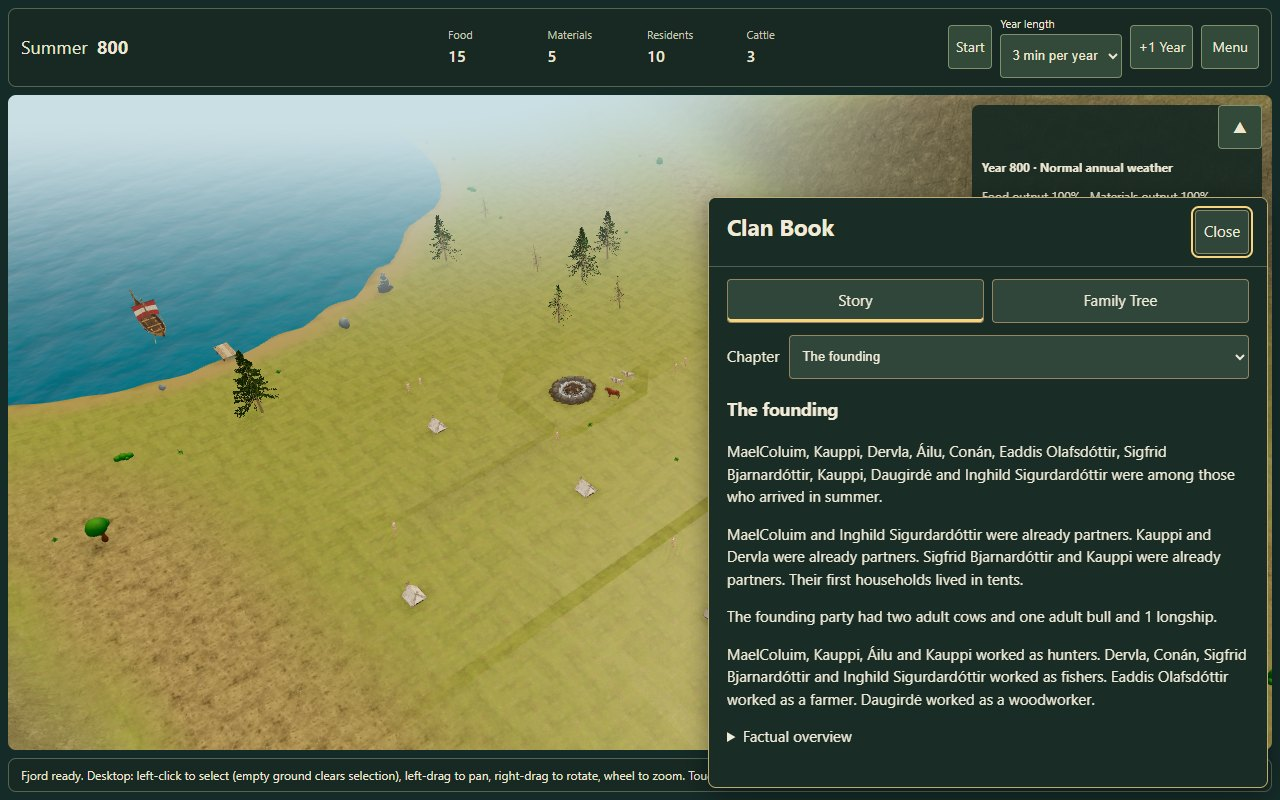
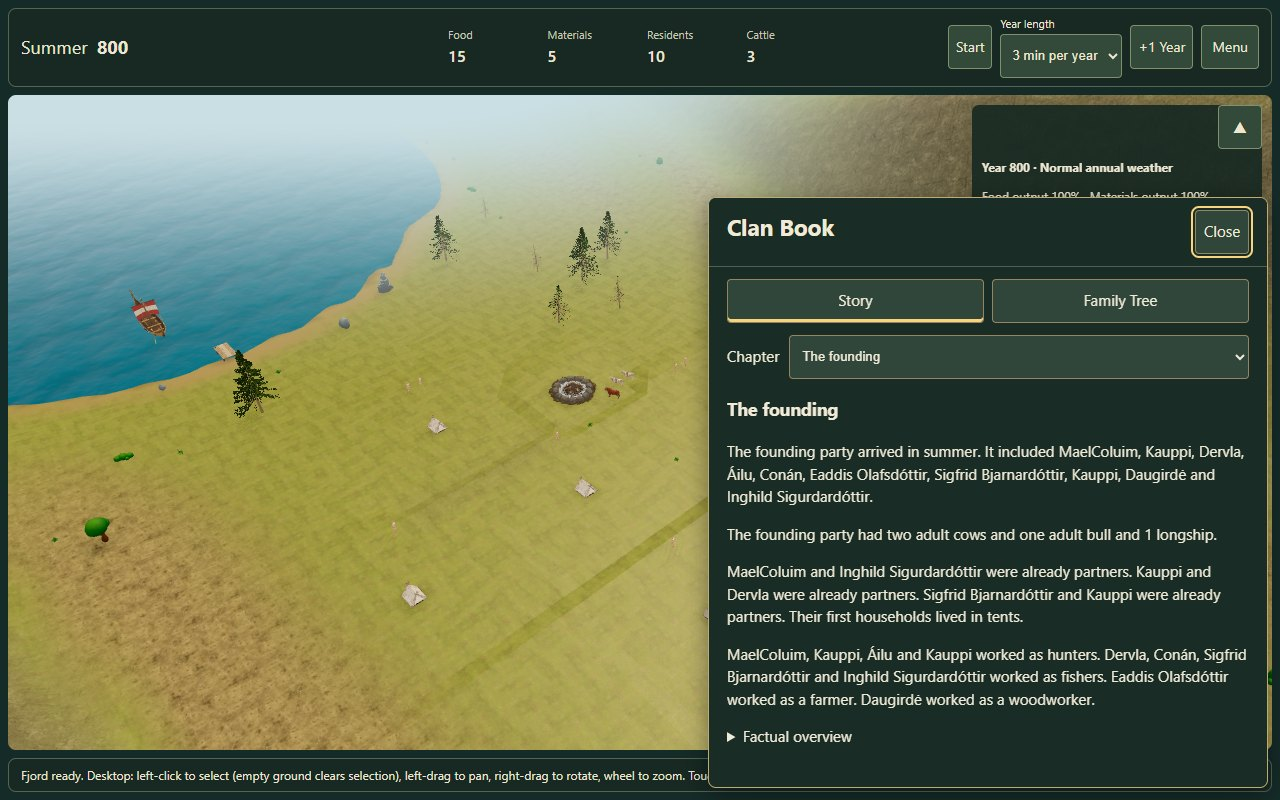
feat: activate owner-approved Summer founding in Fjord

Changed region(s): [[0.5625, 0.6562, 0.9688, 0.7812], [0.5625, 0.5625, 0.9688, 0.625]]

diff --git a/docs/qa/summer-founding/review.html b/docs/qa/summer-founding/review.html
@@ -1,1 +1,1 @@
-<!doctype html><html lang="en"><head><meta charset="utf-8"><meta name="viewport" content="width=device-width,initial-scale=1"><title>Summer 800 — founding review</title><style>body{margin:0;background:#132921;color:#efe8d7;font:17px/1.6 system-ui}main{max-width:1280px;margin:auto;padding:24px}h1,h2{color:#e1cb94}a{color:#ebd194}figure{margin:24px 0}img{display:block;width:100%;border:1px solid #71806b;border-radius:8px}figcaption,small{color:#c1cbbb}.note{padding:18px;background:#233c32;border-left:4px solid #d9bd78}nav{display:flex;gap:24px;flex-wrap:wrap}table{border-collapse:collapse}td,th{padding:8px 14px;border-bottom:1px solid #526357;text-align:left}</style></head><body><main><h1>Summer 800 · A fresh landing</h1><p>The settlement starts directly in Summer at tick 500: 15 Food, 5 Materials, ten founders and three cattle. No earlier months have been simulated.</p><nav><a href="/fjord-play?start=summer&seed=32">Open Summer preview</a><a href="report.md">QA report</a><a href="first-boundary.json">Ten-seed measurements</a></nav><p class="note">Existing campaigns keep their saved time. In the preview, choose <strong>Menu → Campaign → New campaign from seed</strong> for a fresh Summer landing. Both restart choices also use Summer. Default activation awaits your visual acceptance.</p><figure><img src="summer-settlement.jpg" alt="Snow-free island settlement at Summer 800, with tents, cattle, longship and campfire"><figcaption>First ready scene, paused by the QA harness at tick 500. Normal gameplay starts the clock after loading.</figcaption></figure><figure><img src="summer-opening.jpg" alt="The Clan Book opening with the Summer arrival"><figcaption>The frozen opening names Summer from the founding facts.</figcaption></figure><h2>The first Winter approaches sooner</h2><p>The first annual reckoning is 500 played ticks away; later years last 1,000 ticks. At 1, 3 or 5 minutes per year this means 30, 90 or 150 seconds before the first boundary. Annual consumption and risk remain unchanged.</p><p>Nine of ten passive starts retain 1–9 Food. The Harsh-weather seed records 20 unmet Food; this also happens in its old Winter-start control. No balance adjustment was applied.</p><h2>Scope of this review</h2><p>Please review the green Summer arrival, Summer 800 label and opening wording. This verifies the current loading path; the cinematic island formation and camera flight from #153 still need implementation. Existing saves and 2D/headless defaults stay unchanged.</p></main></body></html>
+<!doctype html><html lang="en"><head><meta charset="utf-8"><meta name="viewport" content="width=device-width,initial-scale=1"><title>Summer 800 — founding review</title><style>body{margin:0;background:#132921;color:#efe8d7;font:17px/1.6 system-ui}main{max-width:1280px;margin:auto;padding:24px}h1,h2{color:#e1cb94}a{color:#ebd194}figure{margin:24px 0}img{display:block;width:100%;border:1px solid #71806b;border-radius:8px}figcaption,small{color:#c1cbbb}.note{padding:18px;background:#233c32;border-left:4px solid #d9bd78}nav{display:flex;gap:24px;flex-wrap:wrap}table{border-collapse:collapse}td,th{padding:8px 14px;border-bottom:1px solid #526357;text-align:left}</style></head><body><main><h1>Summer 800 · A fresh landing</h1><p>The settlement starts directly in Summer at tick 500: 15 Food, 5 Materials, ten founders and three cattle. No earlier months have been simulated.</p><nav><a href="/fjord-play?seed=32">Open Summer settlement</a><a href="report.md">QA report</a><a href="first-boundary.json">Ten-seed measurements</a></nav><p class="note">Existing campaigns keep their saved time. Choose <strong>Menu → Campaign → New campaign from seed</strong> for a fresh Summer landing. Both restart choices also use Summer. The Summer introduction was accepted by the owner on 13 October 2026. New Fjord campaigns now use it by default.</p><figure><img src="summer-settlement.jpg" alt="Snow-free island settlement at Summer 800, with tents, cattle, longship and campfire"><figcaption>First ready scene, paused by the QA harness at tick 500. Normal gameplay starts the clock after loading.</figcaption></figure><figure><img src="summer-opening.jpg" alt="The Clan Book opening with the Summer arrival"><figcaption>The frozen opening names Summer from the founding facts.</figcaption></figure><h2>The first Winter approaches sooner</h2><p>The first annual reckoning is 500 played ticks away; later years last 1,000 ticks. At 1, 3 or 5 minutes per year this means 30, 90 or 150 seconds before the first boundary. Annual consumption and risk remain unchanged.</p><p>Nine of ten passive starts retain 1–9 Food. The Harsh-weather seed records 20 unmet Food; this also happens in its old Winter-start control. No balance adjustment was applied.</p><h2>Scope of this review</h2><p>The owner approved the green Summer arrival, Summer 800 label and opening wording. This verifies the current loading path; the cinematic island formation and camera flight from #153 still need implementation. Existing saves and 2D/headless defaults stay unchanged.</p></main></body></html>

diff --git a/src/fjord-play/FjordPlay.ts b/src/fjord-play/FjordPlay.ts
@@ -44,8 +44,8 @@ export class FjordPlay {
         document.body.innerHTML = '<p role="status">Preparing your island campaign…</p>';
         await new Promise<void>(resolve => requestAnimationFrame(() => requestAnimationFrame(() => resolve())));
         const query = new URLSearchParams(location.search);
-        // Preview only until the owner accepts the Summer opening (#157). Loading stays authoritative.
-        const foundingPhase = query.get('start') === 'summer' ? 'summer-800-v1' : undefined;
+        // New and restarted Fjord campaigns arrive in Summer; stored campaigns remain authoritative.
+        const foundingPhase = 'summer-800-v1';
         this.opened = openSettlement('fjord', Number(query.get('seed') ?? 32), foundingPhase);
         this.shared = this.opened.campaign;
         this.session = this.shared.session;

diff --git a/docs/SUMMER-800-START.md b/docs/SUMMER-800-START.md
@@ -2,7 +2,7 @@
 
 ## Activation
 
-The implementation is available for review at `/fjord-play?start=summer`. The normal fresh Fjord entry remains on its existing Winter start until the owner accepts the Summer introduction, as required by #157. On a browser with an active campaign, opening this URL preserves that campaign: use **Menu → Campaign → New campaign from seed** to create the Summer preview. Both restart choices on this URL also opt in.
+The owner accepted the Summer introduction on 2026-10-13 after reviewing the preview. New campaigns and both restart choices in `/fjord-play` now select `summer-800-v1` by default. On a browser with an active campaign, opening the route preserves that campaign: use **Menu → Campaign → New campaign from seed** for a fresh Summer landing. The earlier `?start=summer` review link remains usable but is no longer required.
 
 ## Canonical contract
 
@@ -14,9 +14,9 @@ The first annual boundary at 801:0 occurs after **500 played ticks**. Production
 
 ## Save and entry-point behavior
 
-The phase is an optional versioned Core field. The default headless factory, standalone Gameplay Lab and fresh 2D campaign remain at 800:0. Existing saves without this field retain that baseline; unknown explicit phases are rejected. Import/load never applies the URL option to a saved clock. The current phase survives save/load, explicit 2D ↔ 3D transfer and saved-rule restarts. A new game created in a Summer session retains its selected phase.
+The phase is an optional versioned Core field. The default headless factory, standalone Gameplay Lab and fresh 2D campaign remain at 800:0. Existing saves without this field retain that baseline; unknown explicit phases are rejected. Import/load never replaces a saved clock with the default founding phase. The current phase survives save/load, explicit 2D ↔ 3D transfer and saved-rule restarts. A new game created in a Summer session retains its selected phase.
 
-Fjord new/restart creation passes the explicit phase through the shared session factory. Loading an old campaign on the preview URL leaves it untouched; a subsequent explicit New/Restart action opts in. Geography selection, island recipes and historical worlds are unchanged.
+Fjord new/restart creation passes the explicit phase through the shared session factory. Loading an old campaign leaves it untouched; a subsequent explicit Fjord New/Restart action uses Summer. Geography selection, island recipes and historical worlds are unchanged.
 
 ## Scene and narrative
 
@@ -24,10 +24,10 @@ The normal seasonal projection supplies lighting, ground, foliage, structures an
 
 The frozen opening records a source-backed Summer arrival. The first five-Winter checkpoint is still 805:0, but its observed interval is 4.5 years (800:500 → 805:0). Its complete factual ledger reconciles that shorter interval; quiet prose does not call it five full elapsed years. Later chapter timing and “winters old” ages remain unchanged. Existing published books are not rewritten.
 
-This updates #32's historical Winter-start baseline only for opted-in new campaigns. It does not change the authoritative clock, economy or lifecycle rules.
+This updates #32's historical Winter-start baseline only for new Fjord campaigns. It does not change the authoritative clock, economy or lifecycle rules.
 
 ## Dependency on #153
 
 The cinematic top-down loading sequence and camera flight in #153 have not been implemented. This slice establishes the canonical phase and verifies the existing loading/first-scene path. #153 must consume this actual saved phase for preview and arrival, retain the loading pause, and reveal no hidden CPU settlement details. No claim of cinematic acceptance is made here.
 
-See [first-boundary measurements and browser review](qa/summer-founding/report.md). Balance changes and default activation require their own explicit acceptance; historical reports retain their original settings.
+See [first-boundary measurements and browser review](qa/summer-founding/report.md). Default activation has owner approval; balance changes still require separate acceptance; historical reports retain their original settings.

diff --git a/docs/qa/summer-founding/report.md b/docs/qa/summer-founding/report.md
@@ -1,12 +1,12 @@
 # Summer founding review — #157
 
-Status: implementation preview; owner visual acceptance and default activation pending. The ordinary new-game default is unchanged. PR #145 (island campaign integration) was merged before this branch.
+Status: owner visually accepted the Summer landing, label and opening passage on 2026-10-13. New Fjord campaigns and both restart choices now use it by default. PR #145 (island campaign integration) was merged before this branch.
 
 ## Reproduce
 
 - [Review page](review.html), [raw first-boundary results](first-boundary.json), [browser evidence](browser.json).
-- Open /fjord-play?start=summer&seed=32. Existing sessions are preserved: select Menu → Campaign → New campaign from seed to see the new opening.
-- Run node scripts/qa/measure-summer-founding.mjs and node scripts/qa/check-summer-founding.mjs from the repository root with the preview server on port 5180 (or QA_ORIGIN).
+- Open /fjord-play?seed=32. Existing sessions are preserved: select Menu → Campaign → New campaign from seed to see the new opening.
+- Run node scripts/qa/measure-summer-founding.mjs and node scripts/qa/check-summer-founding.mjs from the repository root with the server on port 5180 (or QA_ORIGIN).
 
 The browser captures use Edge/Chromium. A MutationObserver pauses immediately after readiness for a reproducible opening screenshot; production auto-start remains unchanged. Pre-ready saved clocks stay at 800:500. The ready frame projects Summer, all ordinary terrain/foliage snow amounts are zero, and tents/campfire have zero seasonal snow. Physical iPad and the future #153 cinematic are not claimed as verified.
 
@@ -43,4 +43,4 @@ The HUD uses Summer 800. The annual weather panel explicitly says Year 800 and a
 
 ## Validation status
 
-TypeScript, production build, full character validation (including Lab previews), the forty repeated measurement scenarios, and browser flows passed. The existing build chunk-size advisory remains. The full regression suite and current-head CI are still pending at the time of this report; the PR must remain draft until required checks pass. Default activation remains pending visual acceptance. The unimplemented #153 camera-flight/loading preview is a follow-up dependency, not part of these screenshots.
+TypeScript, production build, full character validation (including Lab previews), the forty repeated measurement scenarios, and browser flows passed. The existing build chunk-size advisory remains. Feature revision 6229b37 passed the full local suite: 745 tests, 744 passed, one existing optional frozen-GLB skip, zero failures; both CI runs also passed. The default-entry activation repeats the browser flows and required CI. See [PR #158](https://github.com/sidesliders1983/Pillagers/pull/158) for the final current-head check results; the PR remains draft while those checks run. The unimplemented #153 camera-flight/loading preview is a follow-up dependency, not part of these screenshots.

diff --git a/docs/THE-LANDING-V01.md b/docs/THE-LANDING-V01.md
@@ -89,6 +89,6 @@ The lower-level Landing factory retains its 30-Food default for CPU starts and h
 
 The population-continuity study observes current mortality, weather and cattle lifecycle through annual Core decisions. Additional fertility, mortality or feeding variants are QA proposals only; they do not change production defaults or migrate campaigns.
 
-## Summer founding preview (#157)
+## Summer founding start (#157)
 
-New 3D campaigns can explicitly select `summer-800-v1`: Summer 800, tick 500, initialized directly with 15 Food and 5 Materials. The first full annual reckoning follows after 500 played ticks, with unchanged annual consumption and risk rules. Headless/standalone 2D defaults and existing saves retain their original time. Both Fjord restart choices use the selected phase; no pre-simulation is performed. The preview awaits owner visual acceptance before default activation. See [Summer founding rules, compatibility and QA](SUMMER-800-START.md).
+New Fjord 3D campaigns explicitly select `summer-800-v1`: Summer 800, tick 500, initialized directly with 15 Food and 5 Materials. The first full annual reckoning follows after 500 played ticks, with unchanged annual consumption and risk rules. Headless/standalone 2D defaults and existing saves retain their original time. Both Fjord restart choices use the selected phase; no pre-simulation is performed. The owner approved this as the new Fjord default on 2026-10-13. See [Summer founding rules, compatibility and QA](SUMMER-800-START.md).

diff --git a/docs/FJORD-ISLAND-CAMPAIGNS.md b/docs/FJORD-ISLAND-CAMPAIGNS.md
@@ -39,6 +39,6 @@ Local saves and 2D ↔ 3D handoffs use this same compact format. Import/new/rest
 
 See [browser evidence and QA](qa/fjord-island/report.md). Historical capacity, terrain and material measurement reports retain their original scope and values.
 
-## Summer founding preview (#157)
+## Summer founding start (#157)
 
-New 3D campaigns can explicitly select `summer-800-v1`: Summer 800, tick 500, initialized directly with 15 Food and 5 Materials. The first full annual reckoning follows after 500 played ticks, with unchanged annual consumption and risk rules. Headless/standalone 2D defaults and existing saves retain their original time. Both Fjord restart choices use the selected phase; no pre-simulation is performed. The preview awaits owner visual acceptance before default activation. See [Summer founding rules, compatibility and QA](SUMMER-800-START.md).
+New Fjord 3D campaigns explicitly select `summer-800-v1`: Summer 800, tick 500, initialized directly with 15 Food and 5 Materials. The first full annual reckoning follows after 500 played ticks, with unchanged annual consumption and risk rules. Headless/standalone 2D defaults and existing saves retain their original time. Both Fjord restart choices use the selected phase; no pre-simulation is performed. The owner approved this as the new Fjord default on 2026-10-13. See [Summer founding rules, compatibility and QA](SUMMER-800-START.md).
